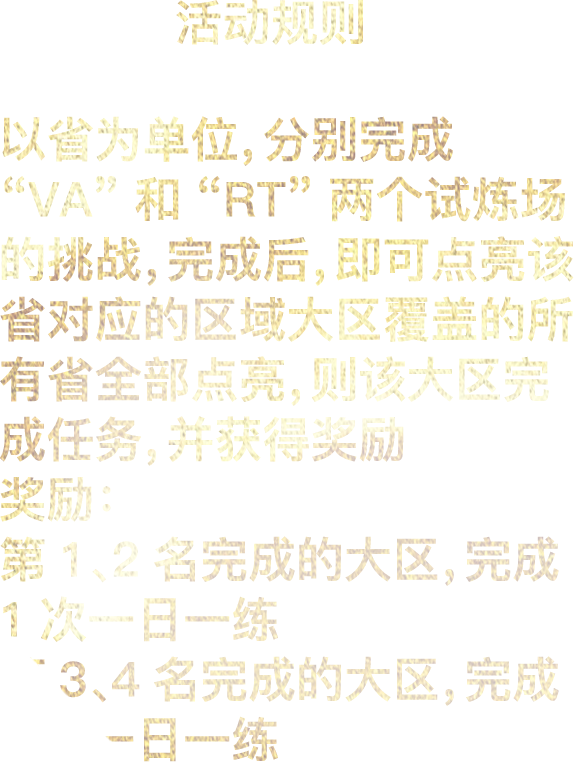
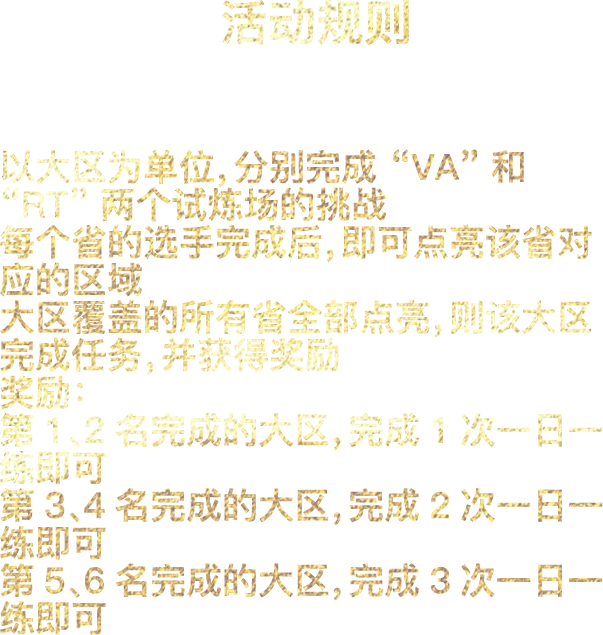
周末修改

diff --git a/src/components/fight/fight.vue b/src/components/fight/fight.vue
@@ -31,7 +31,7 @@
       <transition name='bounceRight'>
         <img src="./fight_start.png" v-show='invite && init' @click='start'>
       </transition>
-      <input @change='toUpload' v-show='!isUpload && isAndroid' class='ipt' type="file" name="xin">
+      <input @change='toUpload' v-show='this.types === "rt" && isAndroid' class='ipt' type="file" name="xin">
     </div>
 
     <transition name='rotate'>
@@ -102,7 +102,7 @@
       this._getListData()
 
       // 判断是否已经上传过了
-      this.$http.get(`/api/game/${this.types}_check`)
+      this.$http.get(`http://meet.17link.cc/api/game/${this.types}_check`)
       .then(res => {
         if (!res.data.data.status) {
           this.isUpload = true
@@ -159,7 +159,7 @@
         this.uploading = true
         this.isSlide = true
         // console.log(formData.get('myFile'))
-        this.$http.post('/api/game/va', formData, config).then(res => {
+        this.$http.post('http://meet.17link.cc/api/game/va', formData, config).then(res => {
           this.uploading = false
           this.isSlide = false
           if (res.data.status === 301) {
@@ -178,12 +178,12 @@
         this.$router.push('/result')
       },
       _getInvite () {
-        this.$http.get(`/api/game/${this.types}_check`).then(res => {
+        this.$http.get(`http://meet.17link.cc/api/game/${this.types}_check`).then(res => {
           res.data.data.status === false ? (this.invite = false) : (this.invite = true)
         })
       },
       _getListData () {
-        this.$http.get(`/api/game/${this.types}_list?zone_id=${this.num}&page=${this.page}`)
+        this.$http.get(`http://meet.17link.cc/api/game/${this.types}_list?zone_id=${this.num}&page=${this.page}`)
         .then(res => {
           if (this.flag) {
             let data = res.data.data.data

diff --git a/src/components/king/king.vue b/src/components/king/king.vue
@@ -106,7 +106,7 @@
           alert('您的手机号码错误，请重新输入')
           return
         }
-        this.$http.post('/api/game/code', {
+        this.$http.post('http://meet.17link.cc/api/game/code', {
           phone: this.tel
         }).then(res => {
           if (res.data.status === 200) {
@@ -128,7 +128,7 @@
         } else if (!this.code) {
           alert('请输入验证码')
         } else {
-          this.$http.post('/api/game/register', {
+          this.$http.post('http://meet.17link.cc/api/game/register', {
             phone: this.tel,
             code: this.code
           }).then(res => {
@@ -146,14 +146,15 @@
         }
       },
       _login () {
-        let id = storage.get('id')
-        if (id) {
-          this.isLogined = true
-          this.popUp = false
-        } else {
-          this.isLogined = false
-          this.popUp = true
-        }
+        this.$http.get('http://meet.17link.cc/api/game/zone').then(res => {
+          if (res.data.status === 403) {
+            this.isLogined = false
+            this.popUp = true
+          } else {
+            this.isLogined = true
+            this.popUp = false
+          }
+        })
       },
       ...mapMutations([
         'SET_CLICK'

diff --git a/src/components/music/music.vue b/src/components/music/music.vue
@@ -1,7 +1,7 @@
 <template>
   <div class='container' @click='toggle' :class='cdCls'>
     <img src="./music.png">
-    <audio src='http://outpmmta5.bkt.clouddn.com/bg.mp3' autoplay loop ref='bg'></audio>
+    <audio src='http://outpmmta5.bkt.clouddn.com/cycle.mp3' loop ref='bg'></audio>
     <audio src="http://outpmmta5.bkt.clouddn.com/btn.mp3" ref='btn'></audio>
   </div>
 </template>
@@ -14,6 +14,9 @@
         playing: true
       }
     },
+    mounted () {
+      this.$refs.bg.play()
+    },
     methods: {
       toggle () {
         this.playing = !this.playing
@@ -22,6 +25,9 @@
         } else {
           this.$refs.bg.play()
         }
+      },
+      play () {
+        this.$refs.bg.play()
       },
       ...mapMutations([
         'SET_CLICK'
@@ -59,8 +65,10 @@
     align-items: center
     &.play
       animation: rotate 5s linear infinite
+      -webkit-animation: rotate 5s linear infinite
     &.pause
       animation-play-state: paused
+      -webkit-animation-play-state: paused
     img
       width: 60%
     
@@ -68,6 +76,7 @@
     @keyframes rotate
       0%
         transform: rotate(0)
+        -webkit-transform: rotate(0)
       100%
-        transform: rotate(360deg)
+        -webkit-transform: rotate(360deg)
 </style>

diff --git a/src/components/share/share.vue b/src/components/share/share.vue
@@ -53,7 +53,8 @@
         num: 0,
         list: [],
         selectList: [],
-        init: false
+        init: false,
+        checkboxValue: ''
       }
     },
     created () {
@@ -84,7 +85,7 @@
         this.SET_CLICK(true)
         // 表单提交
         if (this.num > 0 && this.num <= 3) {
-          this.$http.post('/api/game/at', {
+          this.$http.post('http://meet.17link.cc/api/game/at', {
             member_id: this.selectList
           }).then(res => {
             if (res.data) {
@@ -104,7 +105,7 @@
         }
       },
       _getShareList () {
-        this.$http.get('/api/game/at_list').then(res => {
+        this.$http.get('http://meet.17link.cc/api/game/at_list').then(res => {
           this.list = res.data.data
         })
       },
@@ -172,6 +173,4 @@
       margin-top: 1rem
       display: flex
       justify-content: center
-      img
-        width: 70%
 </style>

diff --git a/src/components/upload/upload.vue b/src/components/upload/upload.vue
@@ -93,7 +93,7 @@
         }
         this.uploading = true
         // console.log(formData.get('myFile'))
-        this.$http.post('/api/game/va', formData, config).then(res => {
+        this.$http.post('http://meet.17link.cc/api/game/va', formData, config).then(res => {
           this.uploading = false
           if (res.data.status === 301) {
             alert('未收到邀请,或超过24小时')
@@ -116,7 +116,7 @@
         }
       },
       _push () {
-        this.$http.get('/api/game/info?type=Va').then(res => {
+        this.$http.get('http://meet.17link.cc/api/game/info?type=Va').then(res => {
           let data = res.data
           if (parseInt(data.status) === 404) {
             return

diff --git a/src/components/result/result.vue b/src/components/result/result.vue
@@ -84,7 +84,7 @@
     mounted () {
       this.init = true
       let list = []
-      this.$http.get('/api/game/zone').then(res => {
+      this.$http.get('http://meet.17link.cc/api/game/zone').then(res => {
         if (parseInt(res.data.status) === 200) {
           let data = res.data.data
           data.forEach(item => {
@@ -244,7 +244,7 @@
         this.idx.push(index)
       },
       _getZone () {
-        this.$http.get('/api/game/zone').then(res => {
+        this.$http.get('http://meet.17link.cc/api/game/zone').then(res => {
           let result = res.data.data
           for (let i = 0; i < result.length; i++) {
             let num = result[i].a * 100 | 0

diff --git a/src/base/rule/rule.vue b/src/base/rule/rule.vue
@@ -1,5 +1,6 @@
 <template>
   <div class='rule'>
+    <img src="./rule.png">
   </div>
 </template>
 <script>
@@ -15,10 +16,15 @@
     position: absolute
     top: 0
     left: 0
-    right: 0
-    bottom: 0
     z-index: 10
-    width: 100%
+    width: 100vw
     height: 100vh
-    background: #fff url('./rule.png') no-repeat center 1rem / 90% 90%
+    background: url('./bg.jpg') no-repeat 0 0 / 100% 100%
+    display: flex
+    justify-content: center
+    padding-top: 3.6rem
+    box-sizing: border-box
+    img
+      width: 90%
+      height: 80%
 </style>

diff --git a/src/App.vue b/src/App.vue
@@ -1,6 +1,6 @@
 <template>
   <div id="app">
-    <music></music>
+    <music ref='music'></music>
     <router-view v-wechat-title="$route.meta.title" img-set="/static/1.png"></router-view>
   </div>
 </template>
@@ -9,9 +9,12 @@
 import Music from '@/components/music/music'
 export default {
   data () {
-    return {
-
-    }
+    return {}
+  },
+  mounted () {
+    document.addEventListener('WeixinJSBridgeReady', () => {
+      this.$refs.music.play()
+    }, false)
   },
   components: {
     Music

diff --git a/src/components/home/home.vue b/src/components/home/home.vue
@@ -55,13 +55,11 @@
     methods: {
       inter () {
         this.SET_CLICK(true)
+        this.img = require('./1.jpg')
         setTimeout(() => {
-          setTimeout(() => {
-            this.$router.push('/king')
-            return
-          }, 2000)
-          this.img = require('./1.jpg')
-        }, 500)
+          this.$router.push('/king')
+          return
+        }, 5000)
       },
       ...mapMutations([
         'SET_CLICK'

diff --git a/index.html b/index.html
@@ -6,6 +6,7 @@
     <meta content="yes" name="apple-touch-fullscreen"> 
     <meta content="telephone=no,email=no" name="format-detection">
     <script src="http://g.tbcdn.cn/mtb/lib-flexible/0.3.4/??flexible_css.js,flexible.js"></script>
+    <script src='http://res.wx.qq.com/open/js/jweixin-1.2.0.js'></script>
     <title>cycle预热</title> 
   </head>
   <body>

diff --git a/src/components/chang/chang.vue b/src/components/chang/chang.vue
@@ -95,7 +95,7 @@
         this.idx.push(index)
       },
       _getZone () {
-        this.$http.get('/api/game/zone').then(res => {
+        this.$http.get('http://meet.17link.cc/api/game/zone').then(res => {
           let result = res.data.data
           for (let i = 0; i < result.length; i++) {
             let num = result[i].a * 100 | 0
